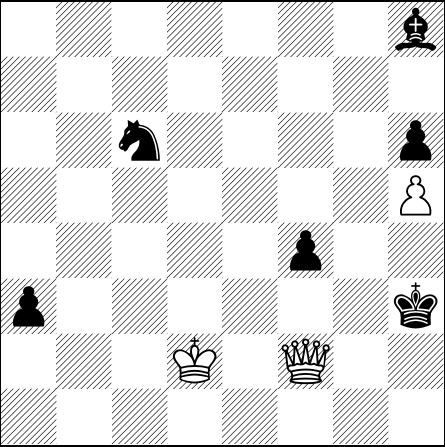
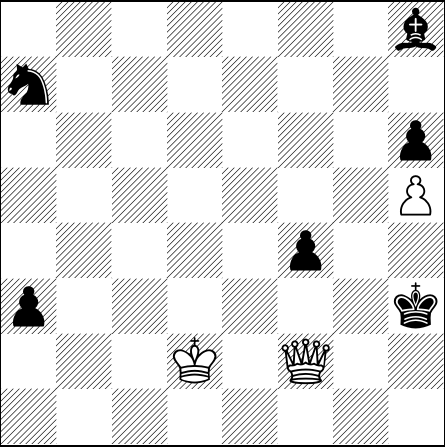
[automated] Regenerate text/pdf for chessboard

Changed region(s): [[0.2629, 0.2617, 0.3798, 0.3781], [0.0, 0.1454, 0.1169, 0.2327]]

diff --git a/default_filepath.tex b/default_filepath.tex
@@ -13,6 +13,6 @@
 \normalsize%
 \setchessboard{showmover=false}%
 \newgame%
-\fenboard{7b/8/2n4p/7P/5p2/p6k/3K1Q2/8 b - - 13 129}%
+\fenboard{7b/n7/7p/7P/5p2/p6k/3K1Q2/8 w - - 14 130}%
 \chessboard%
 \end{document}
